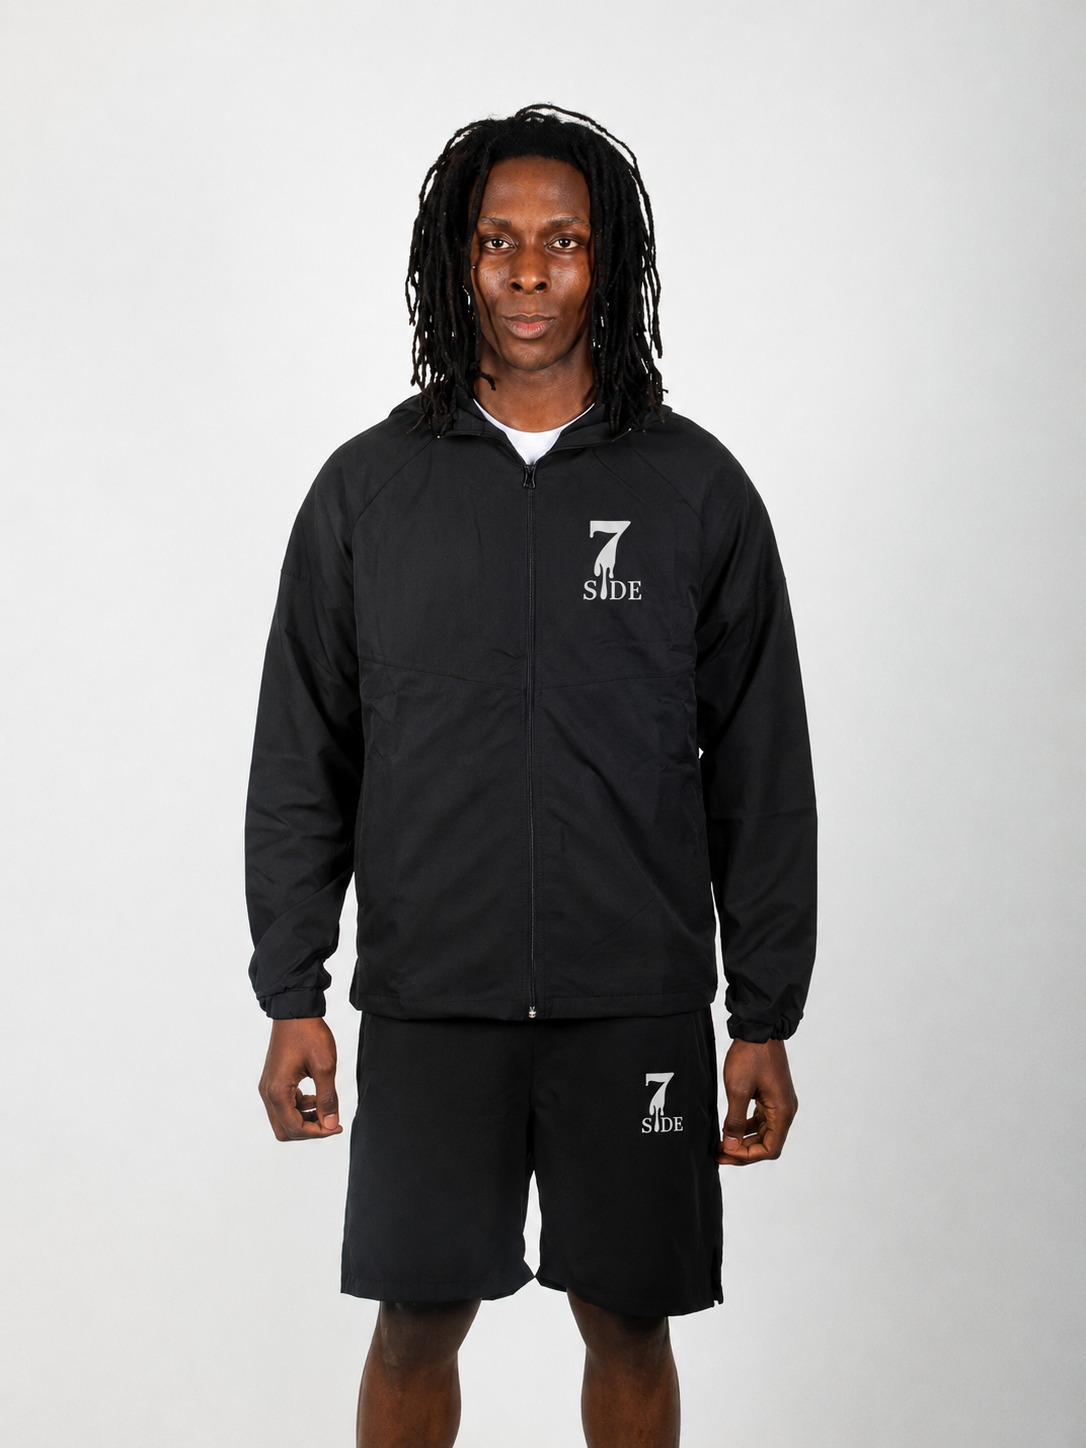
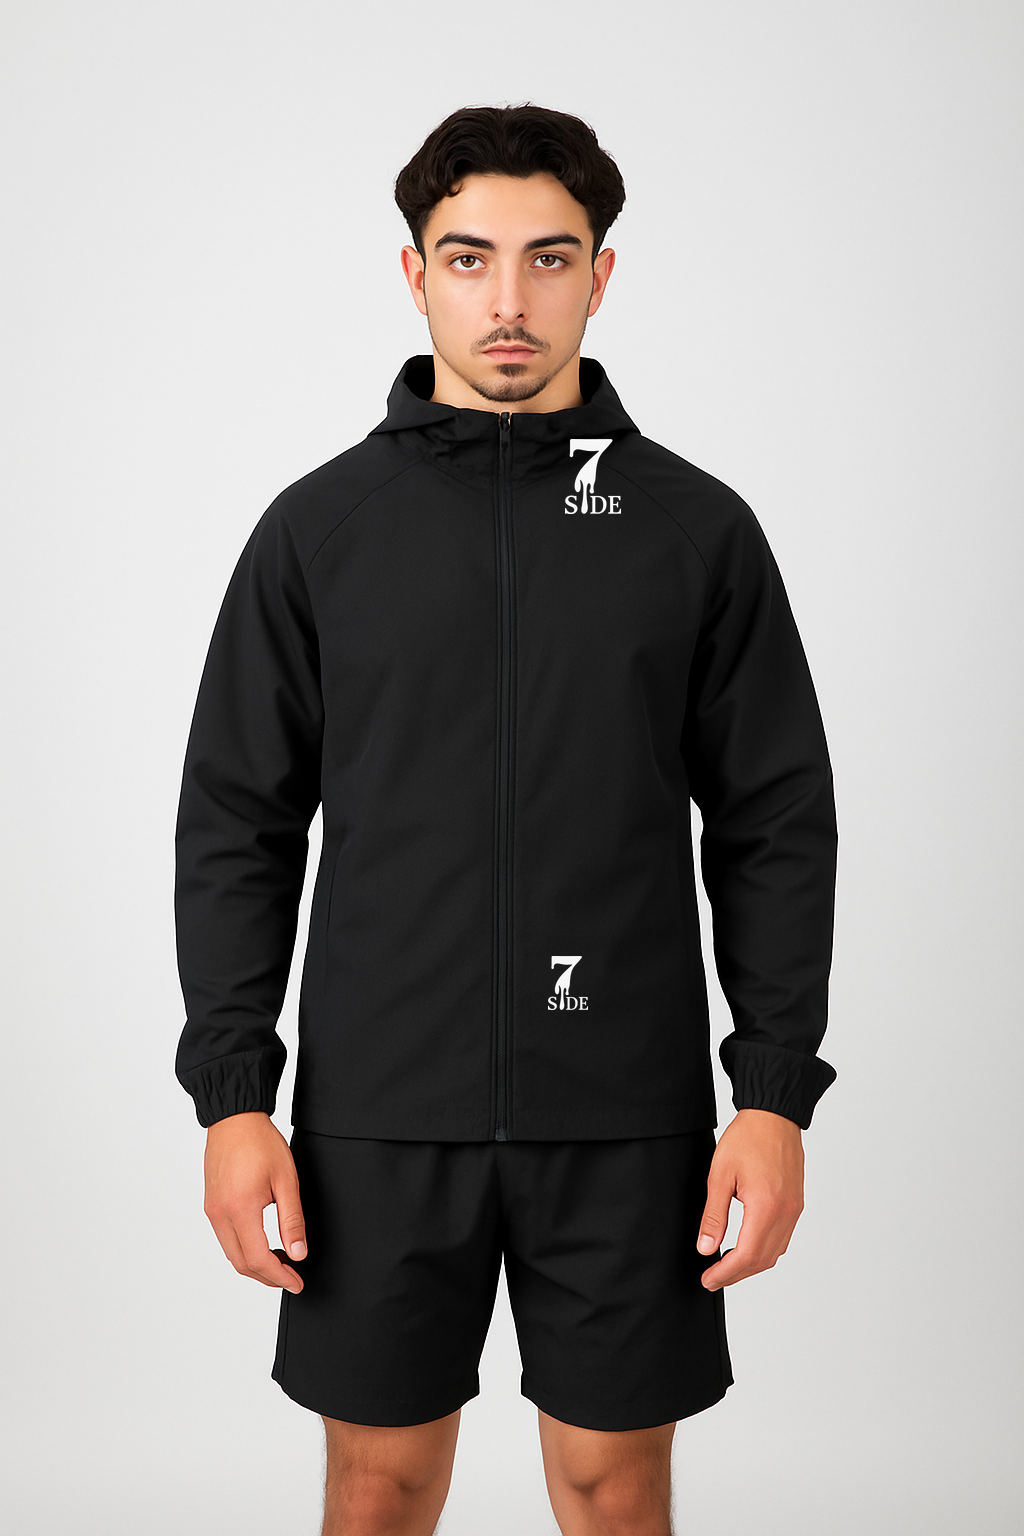
Replace model-front-2 with fresh model shot + add model-front to gen pipeline

diff --git a/scripts/gen-views.py b/scripts/gen-views.py
@@ -68,6 +68,17 @@ VIEW_PROMPTS = {
         "no jacket, no text, no logos, no graphics anywhere on the shorts "
         "— completely blank fabric. Professional e-commerce product photo."
     ),
+    "model-front": (
+        "Editorial streetwear photograph: a young attractive male model in "
+        "his early twenties, light olive skin, short tidy dark hair, sharp "
+        "jawline, neutral confident expression, wearing the EXACT SAME "
+        "outfit shown in this reference image (plain pure-black hooded "
+        "full-zip technical jacket and matching shorts) — but the garments "
+        "must have NO text, NO logos, NO graphics anywhere — completely "
+        "blank black fabric. Full body front view, hands relaxed at sides, "
+        "clean light grey studio background, soft even lighting. "
+        "Professional e-commerce streetwear lookbook photography."
+    ),
 }
 
 
@@ -85,6 +96,11 @@ LOGO_PLACEMENTS: dict[str, list[tuple[float, float, float]]] = {
     "flatlay": [
         (0.430, 0.330, 0.065),  # jacket chest (below the hood)
         (0.720, 0.650, 0.055),  # shorts leg (right leg of lower-right shorts)
+    ],
+    # model-front: standing model, chest at upper third, shorts mid-frame
+    "model-front": [
+        (0.580, 0.310, 0.055),  # jacket chest (right chest of model)
+        (0.555, 0.640, 0.040),  # shorts leg (right leg of model)
     ],
 }
 
